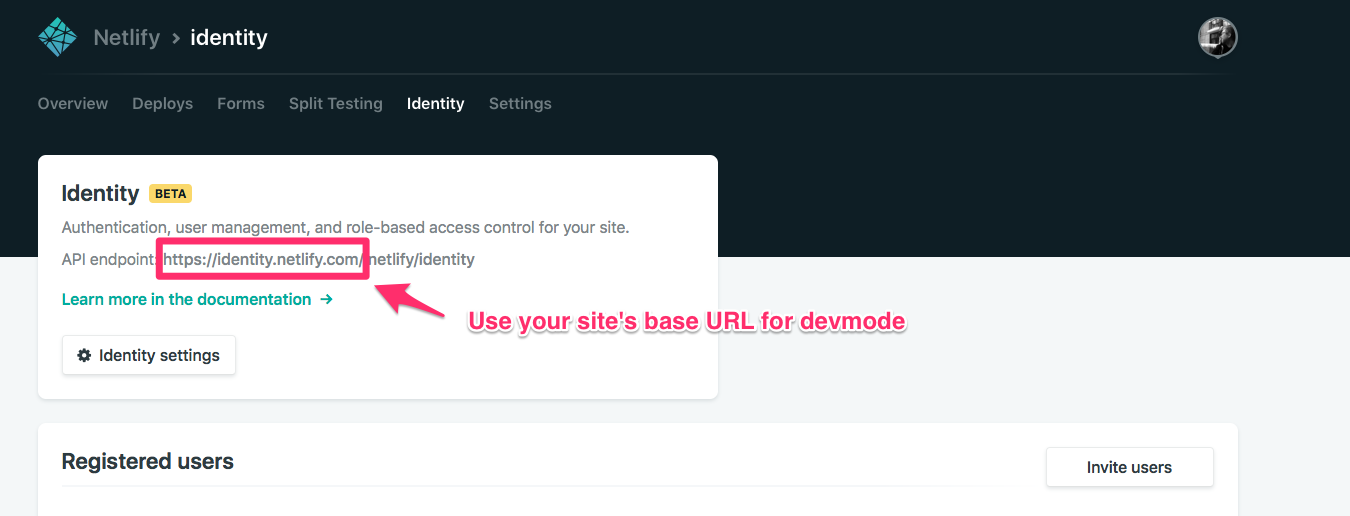
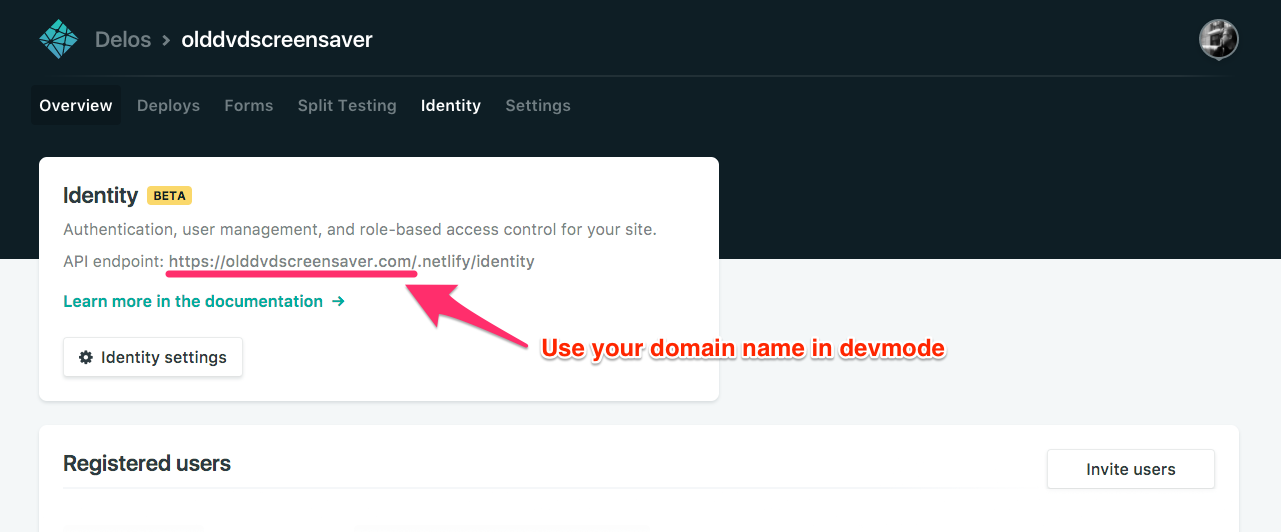
Update copy and screenshot

diff --git a/README.md b/README.md
@@ -115,6 +115,12 @@ When using the widget on localhost, it will prompt for your Netlify SiteURL the 
 This allows the widget to know which instance of Netlify Identity it should communicate with with zero
 configuration.
 
+E.g. If your netlify site is served from the `olddvdscreensaver.com` domain name enter the following when prompted by the widget when in development mode:
+
+```
+https://olddvdscreensaver.com
+```
+
 ![](devmode.png)
 
 ## FAQ
